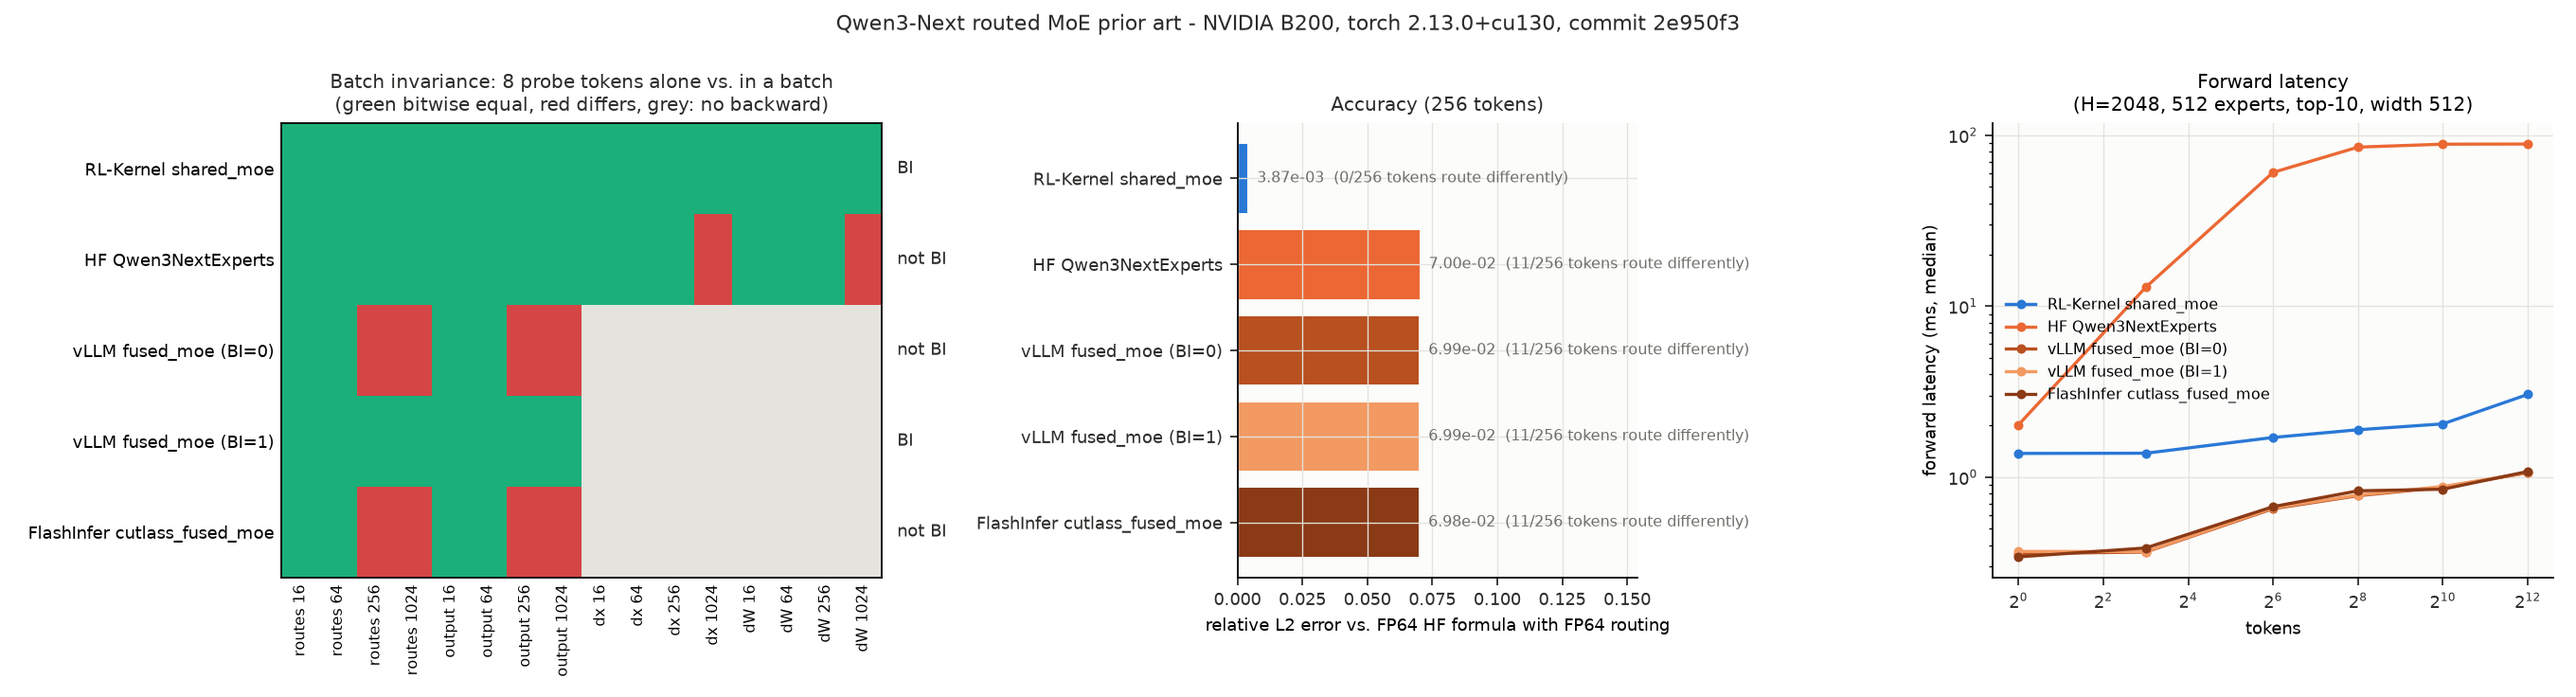
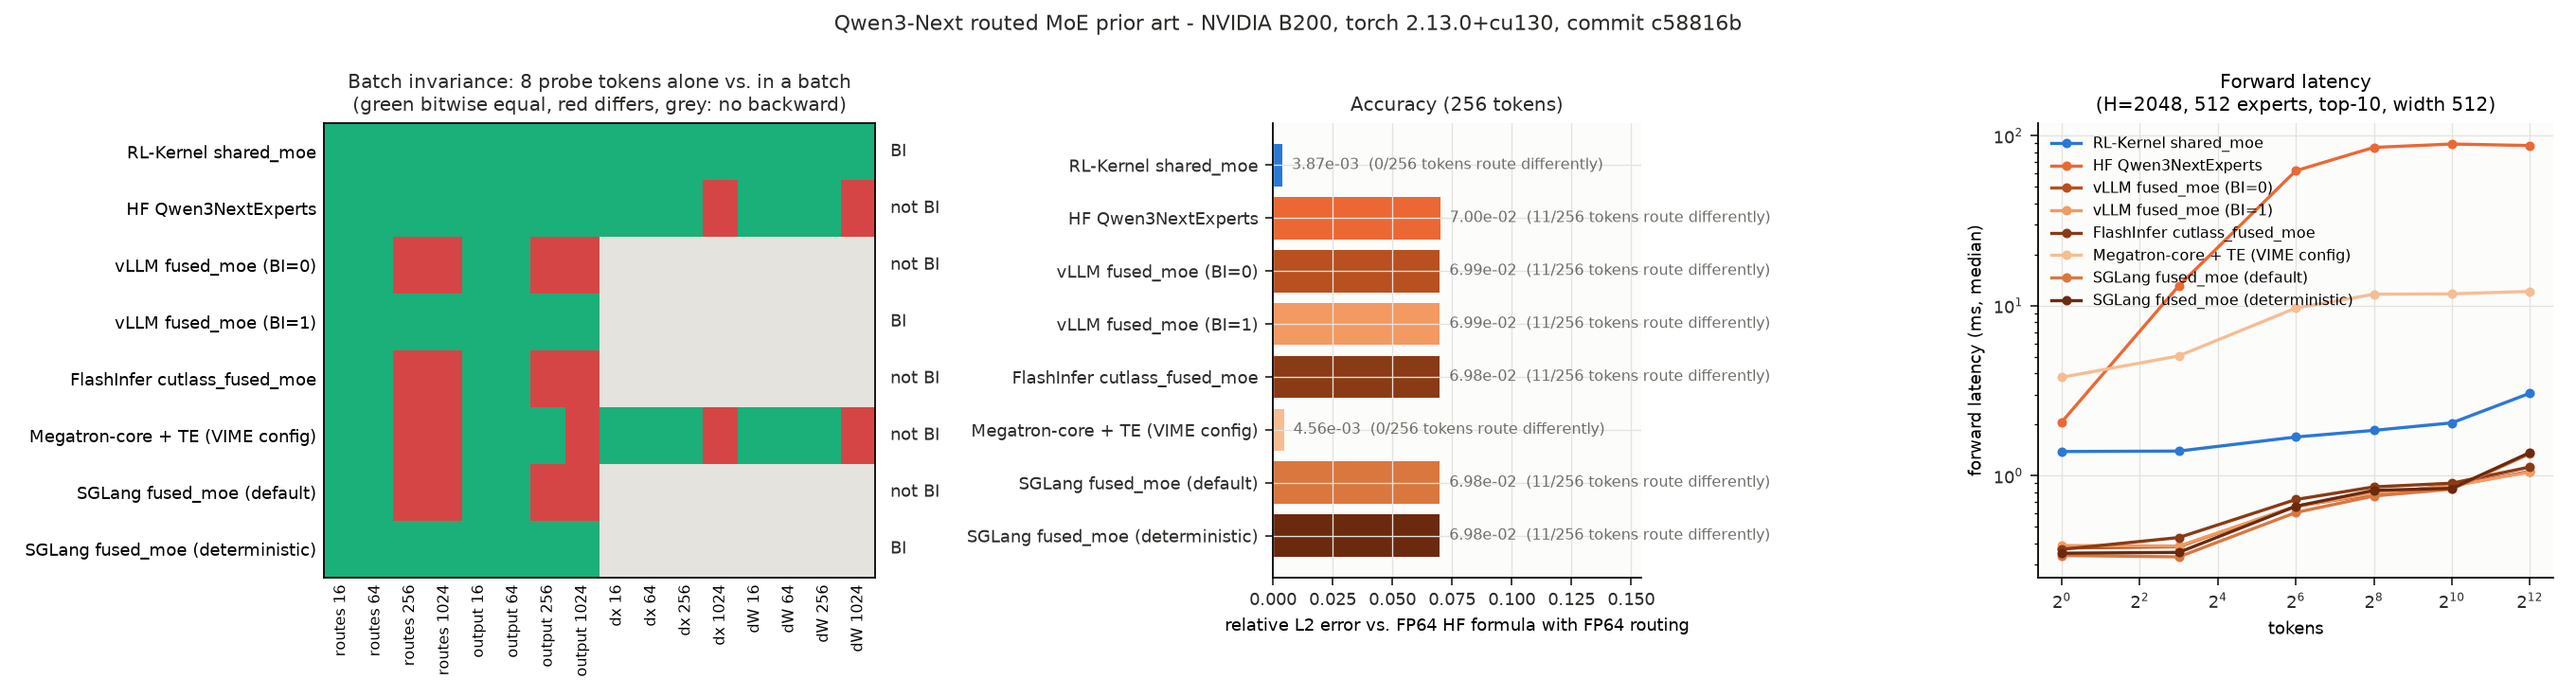
docs(qwen3-next): MoE prior art with Megatron-core/TE and SGLang measured (B200, c58816b)
Every library in the reuse table is now measured: Megatron-core 0.16 + TE 2.16 as VIME configures Qwen3-Next, and SGLang 0.5.21 in default and deterministic-inference mode. The TP4 gate evidence is unchanged (2e950f3, identical MoE code).

diff --git a/docs/operators/qwen3-next-moe-route-combine.md b/docs/operators/qwen3-next-moe-route-combine.md
@@ -69,7 +69,9 @@ the selected probabilities; the indices are discrete.
 | vLLM, `VLLM_BATCH_INVARIANT=1` | yes | yes | none | no VJP for training; BF16 router logits (Qwen3-Next and VIME route in FP32); routed weight applied in the expert GEMM epilogue on the BF16 output, then routes summed by `moe_sum` |
 | HF `Qwen3NextExperts` (eager) | yes | yes | autograd | `dx`/`dW` change with batch size (cuBLAS shape heuristics); BF16 router; `index_add_` combine in BF16 |
 | FlashInfer `cutlass_fused_moe` | (torch routing) | no | none | output changes with batch size; no VJP |
-| SGLang, Megatron-core, Transformer Engine | not measured | not measured | - | not installable next to the pinned vLLM 0.30.0 / torch 2.13 runtime |
+| Megatron-core 0.16 `MoELayer` + TE 2.16 grouped GEMM, as VIME configures Qwen3-Next | no (256+) | no (1024) | autograd, not BI | FP32 router routes like FP64, but the routing, output, dx and dW change with batch size |
+| SGLang 0.5.21 Triton `fused_moe`, default | no (256+) | no (256+) | none | tuned configs and the BF16 router GEMM depend on the token count |
+| SGLang, deterministic inference | yes | yes | none | inference only; BF16 router logits; its deterministic tile (64/64/32) is the one vLLM uses in batch-invariant mode |
 
 What RL-Kernel reuses: vLLM's batch-invariant GEMM for the router and the
 backward, and vLLM's `fused_moe` Triton kernel for the forward expert GEMMs,
@@ -91,25 +93,32 @@ commands are in
 
 TP1 shape (H=2048, 512 experts, top-10, width 512), random weights, BF16:
 
-| | RL-Kernel `shared_moe` | vLLM BI=1 | vLLM BI=0 | FlashInfer CUTLASS | HF eager |
-| --- | --- | --- | --- | --- | --- |
-| routes / output BI (16-1024 tokens) | **yes / yes** | yes / yes | no / no (256+) | no / no (256+) | yes / yes |
-| dx / dW BI | **yes / yes** | no backward | no backward | no backward | no / no (1024) |
-| rel. L2 error vs FP64 | **3.9e-3** | 7.0e-2 | 7.0e-2 | 7.0e-2 | 7.0e-2 |
-| tokens routed unlike FP64 (of 256) | **0** | 11 | 11 | 11 | 11 |
-| forward, 1 / 64 / 1024 / 4096 tokens (ms) | 1.38 / 1.71 / 2.05 / 3.05 | 0.37 / 0.66 / 0.88 / 1.06 | 0.36 / 0.65 / 0.87 / 1.06 | 0.34 / 0.67 / 0.85 / 1.08 | 2.0 / 61 / 89 / 89 |
-| forward + backward, 64 / 1024 tokens (ms) | 112 / 166 | - | - | - | 878 / 1283 |
+| | routes / output BI (16-1024 tokens) | dx / dW BI | rel. L2 vs FP64 | tokens routed unlike FP64 (of 256) | forward, 1 / 64 / 1024 / 4096 tokens (ms) | fwd + bwd, 64 / 1024 (ms) |
+| --- | --- | --- | --- | --- | --- | --- |
+| **RL-Kernel `shared_moe`** | **yes / yes** | **yes / yes** | **3.9e-3** | **0** | 1.39 / 1.69 / 2.04 / 3.05 | 114 / 169 |
+| Megatron-core + TE (VIME config) | no / no | no / no (1024) | 4.6e-3 | 0 | 3.8 / 9.7 / 11.7 / 12.1 | 45 / 51 |
+| vLLM BI=1 | yes / yes | no backward | 7.0e-2 | 11 | 0.39 / 0.66 / 0.87 / 1.05 | - |
+| SGLang deterministic | yes / yes | no backward | 7.0e-2 | 11 | 0.35 / 0.66 / 0.84 / 1.37 | - |
+| vLLM BI=0 | no / no | no backward | 7.0e-2 | 11 | 0.38 / 0.66 / 0.87 / 1.06 | - |
+| SGLang default | no / no | no backward | 7.0e-2 | 11 | 0.34 / 0.61 / 0.83 / 1.35 | - |
+| FlashInfer CUTLASS | no / no | no backward | 7.0e-2 | 11 | 0.37 / 0.72 / 0.90 / 1.12 | - |
+| HF eager | yes / yes | no / no (1024) | 7.0e-2 | 11 | 2.1 / 62 / 89 / 87 | 877 / 1284 |
 
-* The accuracy gap is the router: every other candidate computes BF16 router
-  logits, and 11 of 256 tokens then select a different expert set than FP64
-  routing does. RL-Kernel routes in FP32 and selects the same experts.
+* The accuracy gap is the router: every candidate with BF16 router logits sends
+  11 of 256 tokens to a different expert set than FP64 routing does. RL-Kernel
+  and Megatron-core (VIME's training path) route in FP32 and select the same
+  experts as FP64.
+* The only batch-invariant candidates are RL-Kernel and the inference-only
+  modes of vLLM and SGLang; of these, only RL-Kernel has a backward, so only it
+  can run the same forward on the training and the rollout side.
 * RL-Kernel's forward is 2-4x slower than vLLM's. About 0.5 ms of it, at any
   token count, is the FP32 IEEE router GEMM, which is part of the contract.
   The expert GEMMs themselves run in vLLM's kernel. The per-expert GEMM loop
   they replace (same bits) took 47 / 66 / 71 ms at 64 / 1024 / 4096 tokens in
   a local B200 run of the same runner; that run is not part of this evidence.
 * The backward is still a per-expert loop of pinned GEMMs (512 experts x 4
-  GEMMs) and dominates a training step's MoE time.
+  GEMMs): 169 ms at 1024 tokens, against 51 ms for Megatron-core + TE, which is
+  not batch-invariant. It dominates a training step's MoE time.
 
 TP4 gate on the real layer-0 weights (`tp4-moe/rank-*.json`): all twelve cases
 pass on all four ranks, including the round trip of all 512 experts, identical

diff --git a/docs/usage/evidence/qwen3-next-moe-route-b200/README.md b/docs/usage/evidence/qwen3-next-moe-route-b200/README.md
@@ -1,13 +1,26 @@
 # Qwen3-Next routed MoE: prior art and TP4 gate (B200)
 
-Measured at commit `2e950f3` from a clean clone (`tracked_tree_dirty: false` in
-every file), with that clone's own `rl_engine._C`, on one node with four B200
-GPUs (driver 580.126.20), torch 2.13.0+cu130, vLLM 0.30.0, Triton 3.7.1,
-transformers 5.17.0, FlashInfer 0.6.18.post1, NCCL 2.29.7.
+`report.json` and `figure.png` were measured at commit `c58816b` from a clean
+clone (`tracked_tree_dirty: false`) on one B200 (driver 580.126.20, torch
+2.13.0+cu130, Triton 3.7.1), in two Python environments because no single one
+can import every candidate:
+
+* the training environment (VIME 0.3.2 with Megatron-core 0.16.0rc0 and
+  Transformer Engine 2.16.1, vLLM 0.30.0, FlashInfer 0.6.18.post1,
+  transformers 5.17.0): RL-Kernel, HF, vLLM, FlashInfer, Megatron-core + TE;
+* a second environment with SGLang 0.5.21: SGLang in default and
+  deterministic-inference mode. Its compiled `sgl_kernel` 0.3.21 is built for
+  another libtorch ABI and cannot load next to torch 2.13, so SGLang's two
+  kernels on this path are replaced by SGLang's own implementations of the same
+  operations (Triton `moe_sum_reduce`, JIT `moe_align_block_size`); calling any
+  other `sgl_kernel` symbol fails.
+
+`environments` in `report.json` records both. The TP4 gate files were measured
+at `2e950f3`, whose MoE code is identical (`c58816b` only adds runner candidates).
 
 | File | Produced by |
 | --- | --- |
-| `report.json` | `TRITON_F32_DEFAULT=ieee python scripts/qwen3_next_moe_prior_art.py --out report.json` (one GPU) |
+| `report.json` | `TRITON_F32_DEFAULT=ieee python scripts/qwen3_next_moe_prior_art.py --only rl_kernel_cuda,hf_transformers,vllm_bi0,vllm_bi1,flashinfer_cutlass,megatron_te --out main.json` (training environment), then `... --only sglang_triton,sglang_deterministic --merge main.json --out report.json` (SGLang environment); one GPU |
 | `figure.png` | `python scripts/plot_qwen3_next_moe_prior_art.py report.json` |
 | `tp4-moe/rank-{0..3}.json` | `TRITON_F32_DEFAULT=ieee torchrun --nproc-per-node 4 scripts/qwen3_next_tp_moe_check.py --checkpoint <Qwen3-Next-80B-A3B-Instruct> --output tp4-moe` |
 
